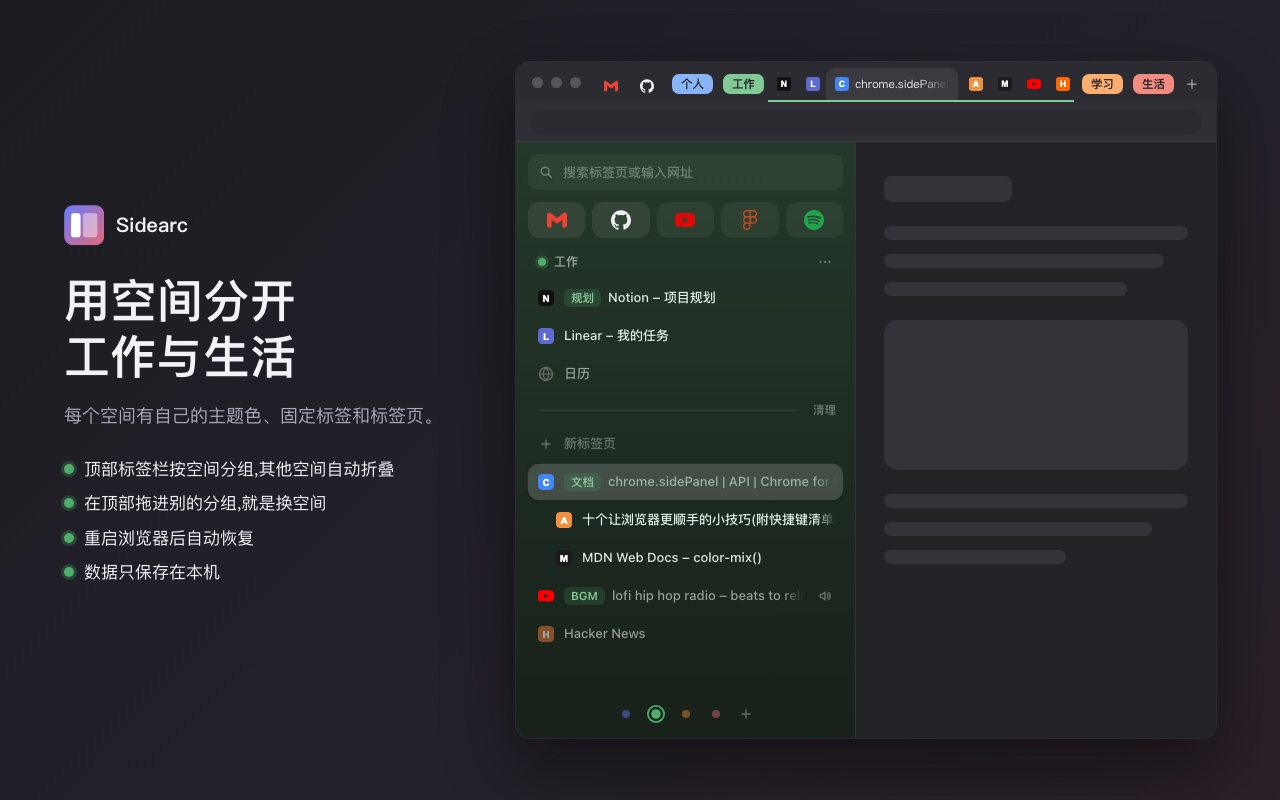
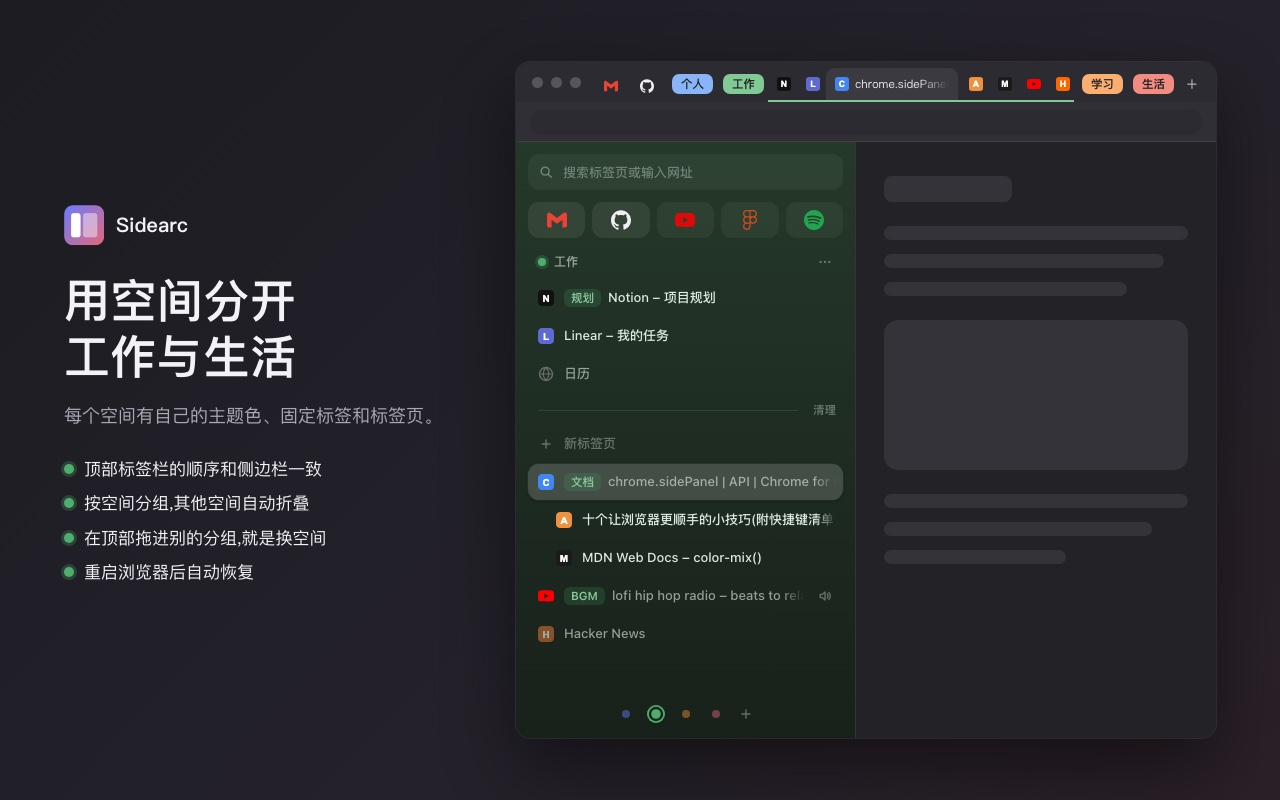
Describe tab strip sync in README, store listing and screenshot 3
Also bring the store description up to date: folders, duplicate handling,
returning pinned tabs, and restoring tabs closed in Chrome's tab strip.

Changed region(s): [[0.0625, 0.5625, 0.3125, 0.75]]

diff --git a/store/screenshots/make.js b/store/screenshots/make.js
@@ -209,5 +209,5 @@ page({
   dark: true,
   title: '用空间分开<br>工作与生活',
   sub: '每个空间有自己的主题色、固定标签和标签页。',
-  bullets: ['顶部标签栏按空间分组,其他空间自动折叠', '在顶部拖进别的分组,就是换空间', '重启浏览器后自动恢复', '数据只保存在本机'],
+  bullets: ['顶部标签栏的顺序和侧边栏一致', '按空间分组,其他空间自动折叠', '在顶部拖进别的分组,就是换空间', '重启浏览器后自动恢复'],
 });
